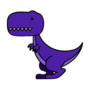
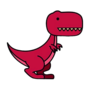
mejora de colores

diff --git a/src/Client.py b/src/Client.py
@@ -35,7 +35,7 @@ pygame.display.set_caption("Client")
 
 
 jugador_posicion_x = 0
-jugador_posicion_y = 465
+jugador_posicion_y = 470
 
 # Definir la posición y el tamaño del piso
 piso_posicion_x = 0
